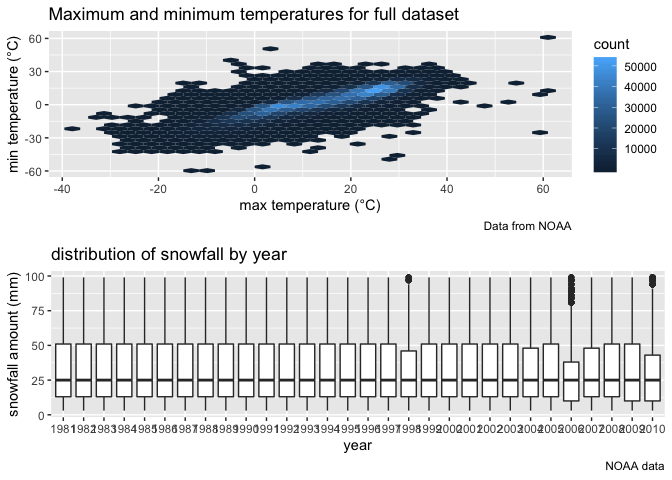
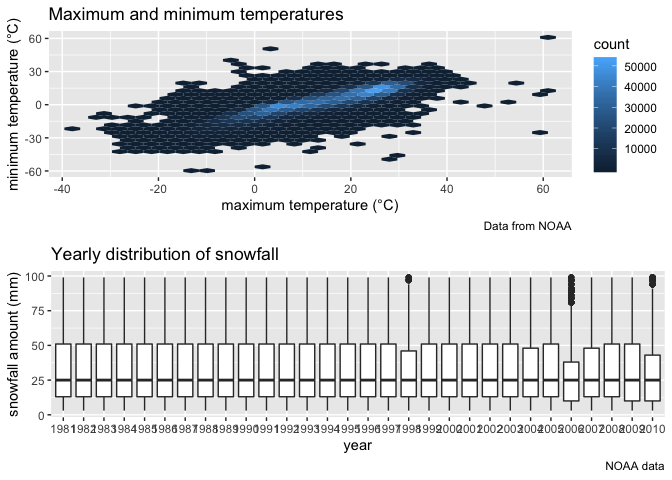
Final Edits

diff --git a/p8105_hw3_ak4123.md b/p8105_hw3_ak4123.md
@@ -54,6 +54,8 @@ brfss_data %>%
       name = "State",
       discrete = TRUE
     ) + 
+  theme_bw() +
+    theme(legend.position = "bottom") +
   guides(color = guide_legend(nrow = 6))
 ```
 
@@ -87,16 +89,11 @@ brfss_data %>%
     scale_x_continuous(breaks = c(2003, 2006, 2009)) +
     facet_grid(~response) +
     labs(
-      title = "Response to Overall Health Question: Broken Down By State for the years 2002 to 2010",
+      title = "Response to Overall Health Question: Broken Down By State from 2002 to 2010",
       x = "Year", 
       y = "Mean Proportion",
       caption = "BRFSS Data"
-    ) +
-    viridis::scale_color_viridis(
-      name = "State",
-      discrete = TRUE
-    ) +
-    guides(color = guide_legend(nrow = 6))
+    )
 ```
 
     ## Warning: Removed 21 rows containing non-finite values (stat_boxplot).
@@ -111,14 +108,15 @@ instacart = instacart %>%
 janitor::clean_names()
 ```
 
-The dimensions of this dataset are (1384617, 15). This means there are 1384617 observations (rows) and 15 variables (columns). Some of the key variables include the order identification number, product name (along with an identification number), the department and aisle the product is located in. There is also... "order\_id" "product\_id"
+The dimensions of this dataset are (1384617, 15). This means there are 1384617 observations (rows) and 15 variables (columns). Some of the key variables include the user identification number, product name (along with an identification number), the department and aisle the product is located in. There is also: "order\_id" "product\_id"
 "add\_to\_cart\_order" "reordered"
 "user\_id" "eval\_set"
 "order\_number" "order\_dow"
 "order\_hour\_of\_day" "days\_since\_prior\_order" "product\_name" "aisle\_id"
 "department\_id" "aisle"
 "department"
-\*\*\*give illustrative examples of observataions.
+
+An example of an observation would be for the user id 112108, a product they ordered was Bulgarian Yogurt. This product comes from the dairy eggs.
 
 ##### Part A
 
@@ -127,17 +125,22 @@ instacart %>%
 group_by(aisle) %>% 
   count(order_id) %>% 
 arrange(desc(n)) %>% 
-  head(2)
+  head(7) %>% 
+  knitr::kable()
 ```
 
-    ## # A tibble: 2 x 3
-    ## # Groups:   aisle [2]
-    ##   aisle               order_id     n
-    ##   <chr>                  <int> <int>
-    ## 1 baby food formula    2188545    28
-    ## 2 energy granola bars  1385776    28
-
-There are 134 aisles. The aisles with the most orders are baby food formula and energy granola bars, each with 28 orders. \#\#\#\#\#Part B: Here, I make a plot that shows the number of items ordered in each aisle.
+| aisle                       |    order\_id|                                                                   n|
+|:----------------------------|------------:|-------------------------------------------------------------------:|
+| baby food formula           |      2188545|                                                                  28|
+| energy granola bars         |      1385776|                                                                  28|
+| tea                         |      2445873|                                                                  27|
+| yogurt                      |      2606705|                                                                  26|
+| cat food care               |      3363902|                                                                  24|
+| energy granola bars         |      2397010|                                                                  24|
+| baby food formula           |      2070470|                                                                  23|
+| There are 134 aisles.       |             |                                                                    |
+| The aisles with the mo      |  st orders a|  re baby food formula and energy granola bars, each with 28 orders.|
+| \#\#\#\#\#Part B: Here, I m |   ake a plot|               that shows the number of items ordered in each aisle.|
 
 ``` r
 instacart %>% 
@@ -149,7 +152,7 @@ instacart %>%
      title = "Items ordered in each aisle",
      x = "aisle number",
      y = "number of items ordered"
-    )
+    ) + theme_bw()
 ```
 
 ![](p8105_hw3_ak4123_files/figure-markdown_github/question%202%20plots-1.png) \#\#\#\#\#Part C: I make a table showing the most popular item in each of the aisles: “baking ingredients”, “dog food care”, and “packaged vegetables fruits”.
@@ -179,23 +182,20 @@ group_by(aisle) %>%
 
 ``` r
 instacart %>% 
-  filter(product_name == "Pink Lady Apples" | product_name ==  "Coffee Ice Cream") %>% 
-select(order_hour_of_day, order_dow, product_name) %>% 
-group_by(product_name, order_dow) %>% 
-summarize(mean_hour = mean(order_hour_of_day)) %>% 
-spread(key = order_dow, value = mean_hour)
+  filter(product_name == "Pink Lady Apples" | product_name == "Coffee Ice Cream") %>% 
+  select(product_name, order_dow, order_hour_of_day) %>% 
+  group_by(order_dow, product_name) %>% 
+  summarize(mean_hour = mean(order_hour_of_day)) %>% 
+  spread(key = order_dow, value = mean_hour) %>% 
+  knitr::kable()
 ```
 
-    ## # A tibble: 2 x 8
-    ## # Groups:   product_name [2]
-    ##   product_name       `0`   `1`   `2`   `3`   `4`   `5`   `6`
-    ##   <chr>            <dbl> <dbl> <dbl> <dbl> <dbl> <dbl> <dbl>
-    ## 1 Coffee Ice Cream  13.8  14.3  15.4  15.3  15.2  12.3  13.8
-    ## 2 Pink Lady Apples  13.4  11.4  11.7  14.2  11.6  12.8  11.9
-
-#### Question 3
-
-##### I load the data from NY\_NOAA
+| product\_name            |             0|         1|         2|         3|         4|         5|         6|
+|:-------------------------|-------------:|---------:|---------:|---------:|---------:|---------:|---------:|
+| Coffee Ice Cream         |      13.77419|  14.31579|  15.38095|  15.31818|  15.21739|  12.26316|  13.83333|
+| Pink Lady Apples         |      13.44118|  11.36000|  11.70213|  14.25000|  11.55172|  12.78431|  11.93750|
+| \#\#\#\#Question 3       |              |          |          |          |          |          |          |
+| \#\#\#\#\#I load the dat |  a from NY\_N|       OAA|          |          |          |          |          |
 
 ``` r
 library(p8105.datasets)
@@ -224,7 +224,7 @@ c_ny_noaa %>%
     ## 2    NA  381221
     ## 3    25   31022
 
-For snowfall, the most common values are actually 0 inches and N/A. Following this, the most common snowfall is 25 inches. \#\#\#\#\#Part A: I make a two-panel plot showing the average max temperature in January and in July in each station across years.
+For snowfall, the most common values are actually 0 inches and N/A, which makes sense because snow does not occur year-long. Following this, the most common snowfall is 25 inches. \#\#\#\#\#Part A: I make a two-panel plot showing the average max temperature in January and in July in each station across years.
 
 ``` r
 c_ny_noaa %>% 
@@ -238,31 +238,31 @@ c_ny_noaa %>%
   facet_grid(~month) +  
   labs(
       x = "Year",
-      y = "Average Temp. (°C)",
-      title = "Average Max Temperatures for January and July in New York",
-      caption = "Data from NOAA"
+      y = "Average Temperature (°C)",
+      title = "Average Maximum Temperatures for January and July in New York",
+      caption = "NY_NOAA Data"
     ) +
     viridis::scale_color_viridis(
       discrete = TRUE,
       name = "ID"
     ) +
     theme_bw() +
-    theme(legend.position = "bottom", legend.text = element_text(size = 4), legend.key.size = unit(1, "point")) +
+    theme(legend.position = "bottom", legend.text = element_text(size = 3), legend.key.size = unit(1, "point")) +
     guides(color = guide_legend(nrow = 22))
 ```
 
-![](p8105_hw3_ak4123_files/figure-markdown_github/questions-1.png) About the plot: We see that the average maximum temperature across all locations is lower in January than it is in July, which is expected. We can also see that there is greater variation in in January than in July across most locations, as the range is wider. We are able to see outliers, though due to the number of locations I cannot distiguish exactly which locations. There appears to be more outliers in the later years for both months. For the most part, it appears that the overall temperature range has stayed he same, with yearly variation across both months. We could say that there is more variation in January than in July. \#\#\#\#\#Part B: I Make a two-panel plot showing (i) tmax vs tmin for the full dataset (note that a scatterplot may not be the best option); and (ii) make a plot showing the distribution of snowfall values greater than 0 and less than 100 separately by year.
+![](p8105_hw3_ak4123_files/figure-markdown_github/questions-1.png) About the plot: We see that the average maximum temperature across all locations is lower in January than it is in July, which is expected. We can also see that there is greater variation in in January than in July across most locations, as the range is wider. We are able to see outliers, though due to the number of locations I cannot distiguish exactly which locations. There appears to be more outliers in the later years for both months. For the most part, it appears that the overall temperature range has stayed he same, with yearly variation across both months. We could say that there is more variation in January than in July. \#\#\#\#\#Part B: I Make a two-panel plot showing (i) tmax vs tmin for the full dataset ; and (ii) make a plot showing the distribution of snowfall values greater than 0 and less than 100 separately by year.
 
 ``` r
 library(hexbin)
-precipitation_plot = c_ny_noaa %>% 
+temp_plot = c_ny_noaa %>% 
   filter(tmax != "NA" & tmin != "NA") %>% 
   ggplot(aes(x = tmax, y = tmin)) + 
     stat_binhex() + 
   labs(
-      x = "max temperature (°C)",
-      y = "min temperature (°C)",
-      title = "Maximum and minimum temperatures for full dataset",
+      x = "maximum temperature (°C)",
+      y = "minimum temperature (°C)",
+      title = "Maximum and minimum temperatures",
       caption = "Data from NOAA"
     )
 
@@ -273,11 +273,11 @@ snowfall_plot = c_ny_noaa %>%
     labs(
       x = "year",
       y = "snowfall amount (mm)",
-      title = "distribution of snowfall by year",
+      title = "Yearly distribution of snowfall",
       caption = "NOAA data"
     )
 
-ggpubr::ggarrange(precipitation_plot, snowfall_plot, 
+ggpubr::ggarrange(temp_plot, snowfall_plot,
   ncol = 1, nrow = 2)
 ```
 
